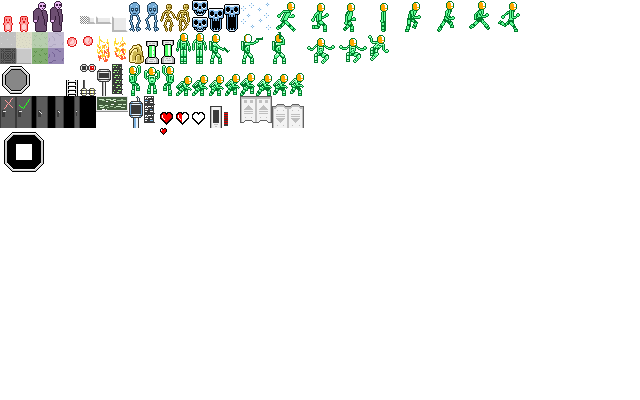
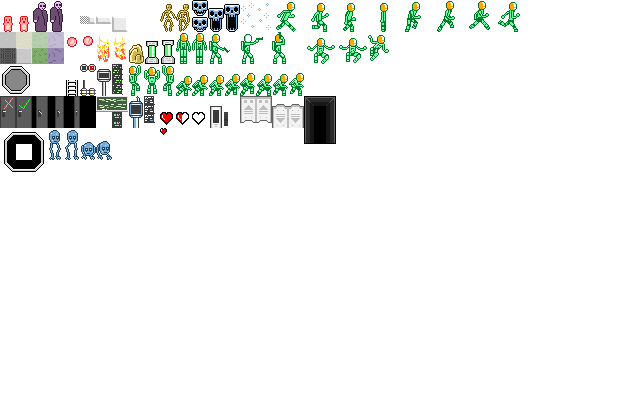
added enemy that ducks to dodge bullets

diff --git a/entities.py b/entities.py
@@ -395,7 +395,9 @@ class Player(Actor):
         bullet_h = 4
         self.active_bullet = pygame.Rect(bullet_x, bullet_y, bullet_w, bullet_h)
 
-        colliders = world.get_entities_in_rect(self.active_bullet.inflate(0, 8), category="enemy")
+        hitbox = self.active_bullet.inflate(0, 8)
+        hitting_hurtbox = lambda x: hitbox.colliderect(x.get_hurtbox())
+        colliders = world.get_entities_in_rect(hitbox, category="enemy", cond=hitting_hurtbox)
         colliders.extend(world.get_entities_in_rect(self.active_bullet, category="wall"))
 
         hit_entity = None
@@ -420,88 +422,6 @@ class Player(Actor):
             self.active_bullet.width = bullet_w
 
         return hit_entity
-
-
-class Enemy(Actor):
-    def __init__(self, x, y):
-        Actor.__init__(self, x, y, 16, 48)
-        self.categories.update(["enemy"])
-        self.speed = 0.75 + random.random()/2
-        self.current_dir = (0, 0)
-        self._randint = random.randint(0, 999)
-        self.radius = 140  # starts chasing player within this distance
-        self.forget_radius = 300  # stops chasing at this distance
-        self.is_chasing = False
-        self.start_chasing_time = 0
-        self.forget_time = 240  # fps dependent
-
-    sprites = [images.BLUE_GUY, images.PURPLE_GUY, images.BROWN_GUY]
-
-    def sprite(self):
-        return Enemy.sprites[self._randint % len(Enemy.sprites)]
-
-    def sprite_offset(self):
-        spr = self.sprite()
-        w = self.get_rect().width
-        h = self.get_rect().height
-        return [(w - spr.width()) / 2, (h - spr.height()) / 2 - (64 - h) / 2]
-
-    def draw(self, screen, offset=(0, 0), modifier=None):
-        Entity.draw(self, screen, offset, modifier)
-        if self.health < self.max_health:
-            health_x = self.get_rect().x + offset[0]
-            health_y = self.get_rect().y + self.sprite_offset()[1] - 6 + offset[1]
-            health_width = self.get_rect().width
-            health_rect = [health_x, health_y, health_width, 4]
-            pygame.draw.rect(screen, (255, 50, 50), health_rect, 0)
-            health_rect[2] = max(0, round(health_width * self.health / self.max_health))
-            pygame.draw.rect(screen, (50, 255, 50), health_rect, 0)
-
-    def update(self, input_state, world):
-        self._update_status_tags(world, input_state)
-
-        if self.health <= 0:
-            self.is_alive = False
-            return
-
-        p = world.player()
-        if p is not None:
-            dist = cool_math.dist(self.center(), p.center())
-            if dist <= self.radius:
-                self.start_chasing()  # it's ok to call this every frame
-            elif dist > self.forget_radius:
-                follow_time = global_state.tick_counter - self.start_chasing_time
-                if follow_time >= self.forget_time:
-                    self.is_chasing = False
-
-        if self.is_chasing and p is not None:
-            direction = cool_math.sub(p.center(), self.center())
-            direction = cool_math.normalize(direction)
-            self.current_dir = direction
-        else:
-            # change directions approx every 30 ticks
-            if random.random() < 1 / 60:
-                if random.random() < 0.25:
-                    self.current_dir = (0, 0)
-                else:
-                    self.current_dir = cool_math.rand_direction()
-        new_vel = cool_math.tend_towards(self.current_dir[0] * self.speed, self.vel[0], 0.3)
-        self.set_vel_x(new_vel)
-        self.apply_gravity()
-        self.apply_physics()
-
-    def touched_player(self, player, world):
-        v = cool_math.sub(player.center(), self.center())
-        v = cool_math.normalize(v)
-        player.deal_damage(1, direction=v)
-
-    def deal_damage(self, damage, direction=None):
-        Actor.deal_damage(self, damage, direction=direction)
-        self.start_chasing()
-
-    def start_chasing(self):
-        self.start_chasing_time = global_state.tick_counter
-        self.is_chasing = True
 
 
 class Wall(Entity):
@@ -559,66 +479,6 @@ class Wall(Entity):
                 r[0] = rect.width - 2
                 r[1] = y
                 pygame.draw.rect(self._cached_outline, (0, 0, 0), r, 0)
-
-
-class Spawner(Entity):
-    def __init__(self, x, y, radius):
-        Entity.__init__(self, x, y, 24, 24)
-        self.radius = radius
-        self.spawn_cooldown = 40
-        self.current_cooldown = 0
-        self.categories.update(["wall"])
-
-    def sprite(self):
-        if self.current_cooldown > 0:
-            return images.SPAWNER_SKULL_OPEN
-        else:
-            return images.SPAWNER_SKULL
-
-    def sprite_offset(self):
-        if self.current_cooldown > 0:
-            return (-4, -40)
-        else:
-            return (-4, -4)
-
-    def update(self, input_state, world):
-        if self.current_cooldown > 0:
-            self.current_cooldown -= 1
-        else:
-            if random.random() < 1 / 30:
-                self.do_spawn(world)
-
-    def create_spawned(self):
-        return Enemy(0, 0)
-
-    def do_spawn(self, world):
-        c = self.center()
-        r = random.random() * self.radius
-        angle = random.random() * 2 * math.pi
-        rand_x = round(r * math.cos(angle) + c[0])
-        rand_y = round(r * math.sin(angle) + c[1])
-        spawned = self.create_spawned()
-        spawned.set_center_x(rand_x)
-        spawned.set_center_y(rand_y)
-
-        if len(world.get_entities_in_rect(spawned.get_rect(), not_category="ground")) == 0:
-            world.add_entity(spawned)
-
-        self.current_cooldown = self.spawn_cooldown
-
-
-class EnergyTank(Entity):
-    def __init__(self, x, y, health):
-        Entity.__init__(self, x, y, 24, 24)
-        self.max_health = health
-        self.health = health
-        self.categories.update(["wall"])
-
-    def sprite(self):
-        return images.ENERGY_TANK
-
-    def sprite_offset(self):
-        return (-4, -40)
 
 
 class Door(Entity):
@@ -803,7 +663,7 @@ class HealthMachine(Entity):
 class LevelEndDoor(Entity):
     def __init__(self, x, y, dest_level_id):
         Entity.__init__(self, x, y, 64, 96)
-        self.categories.update(["interactable", "level_ddoor"])
+        self.categories.update(["interactable", "level_door"])
         self.dest_level_id = dest_level_id
         self.is_locked = True
         self.is_open = False
@@ -818,7 +678,6 @@ class LevelEndDoor(Entity):
             # TODO - play sound
 
     def draw(self, screen, offset=(0, 0), modifier="normal"):
-        pygame.draw.rect(screen, (0, 0, 0), self.get_rect().move(offset[0], offset[1]))
         x = self.get_x() + offset[0]
         top_sprite = images.BLAST_DOOR_TOP
         bot_sprite = images.BLAST_DOOR_BOTTOM
@@ -828,10 +687,10 @@ class LevelEndDoor(Entity):
             images.draw_animated_sprite(screen, (x, top_y_closed), top_sprite, modifier=modifier)
             images.draw_animated_sprite(screen, (x, bot_y_closed), bot_sprite, modifier=modifier)
         elif self.is_open or self.opening_cooldown <= 0:
-            # TODO - sprite for fully opened door
-            pass
+            images.draw_animated_sprite(screen, self.get_rect().move(offset[0], offset[1]), images.BLAST_DOOR_BKGR)
         else:
             # door is opening
+            images.draw_animated_sprite(screen, self.get_rect().move(offset[0], offset[1]), images.BLAST_DOOR_BKGR)
             progress = 1 - self.opening_cooldown / self.max_opening_cooldown
             top_cut_off = int(progress * top_sprite.height())
             bot_cut_off = int(progress * bot_sprite.height())
@@ -1087,7 +946,8 @@ class EntityCollection:
 
 _INVALIDS = set()
 _VALID_CATEGORIES = {"ground", "actor", "enemy", "decoration", "terminal", "puzzle_terminal",
-                     "health_machine", "wall", "overlay", "player", "interactable", "light_source"}
+                     "health_machine", "wall", "overlay", "player", "interactable", "light_source",
+                     "level_door"}
 
 
 def validate_category(category):

diff --git a/enemies.py b/enemies.py
@@ -1,0 +1,123 @@
+import random
+
+import pygame
+
+import cool_math
+import global_state
+import images
+import entities
+
+
+class Enemy(entities.Actor):
+    def __init__(self, x, y):
+        entities.Actor.__init__(self, x, y, 16, 48)
+        self.categories.update(["enemy"])
+        self.speed = 0.75 + random.random()/2
+        self.current_dir = (0, 0)
+        self._randint = random.randint(0, 999)
+        self.radius = 140  # starts chasing player within this distance
+        self.forget_radius = 300  # stops chasing at this distance
+        self.is_chasing = False
+        self.start_chasing_time = 0
+        self.forget_time = 240  # fps dependent
+
+    sprites = [images.PURPLE_GUY, images.BROWN_GUY]
+
+    def sprite(self):
+        return Enemy.sprites[self._randint % len(Enemy.sprites)]
+
+    def sprite_offset(self):
+        spr = self.sprite()
+        w = self.get_rect().width
+        h = self.get_rect().height
+        return [(w - spr.width()) / 2, (h - spr.height()) / 2 - (64 - h) / 2]
+
+    def draw(self, screen, offset=(0, 0), modifier=None):
+        entities.Entity.draw(self, screen, offset, modifier)
+        if self.health < self.max_health:
+            health_x = self.get_rect().x + offset[0]
+            health_y = self.get_rect().y + self.sprite_offset()[1] - 6 + offset[1]
+            health_width = self.get_rect().width
+            health_rect = [health_x, health_y, health_width, 4]
+            pygame.draw.rect(screen, (255, 50, 50), health_rect, 0)
+            health_rect[2] = max(0, round(health_width * self.health / self.max_health))
+            pygame.draw.rect(screen, (50, 255, 50), health_rect, 0)
+
+    def update(self, input_state, world):
+        self._update_status_tags(world, input_state)
+
+        if self.health <= 0:
+            self.is_alive = False
+            return
+
+        p = world.player()
+        if p is not None:
+            dist = cool_math.dist(self.center(), p.center())
+            if dist <= self.radius:
+                self.start_chasing()  # it's ok to call this every frame
+            elif dist > self.forget_radius:
+                follow_time = global_state.tick_counter - self.start_chasing_time
+                if follow_time >= self.forget_time:
+                    self.is_chasing = False
+
+        if self.is_chasing and p is not None:
+            direction = cool_math.sub(p.center(), self.center())
+            direction = cool_math.normalize(direction)
+            self.current_dir = direction
+        else:
+            # change directions approx every 30 ticks
+            if random.random() < 1 / 60:
+                if random.random() < 0.25:
+                    self.current_dir = (0, 0)
+                else:
+                    self.current_dir = cool_math.rand_direction()
+        new_vel = cool_math.tend_towards(self.current_dir[0] * self.speed, self.vel[0], 0.3)
+        self.set_vel_x(new_vel)
+        self.apply_gravity()
+        self.apply_physics()
+
+    def touched_player(self, player, world):
+        v = cool_math.sub(player.center(), self.center())
+        v = cool_math.normalize(v)
+        player.deal_damage(1, direction=v)
+
+    def deal_damage(self, damage, direction=None):
+        entities.Actor.deal_damage(self, damage, direction=direction)
+        self.start_chasing()
+
+    def start_chasing(self):
+        self.start_chasing_time = global_state.tick_counter
+        self.is_chasing = True
+
+    def get_hurtbox(self):
+        return self.get_rect()
+
+
+class DodgeEnemy(Enemy):
+    def __init__(self, x, y):
+        Enemy.__init__(self, x, y)
+        self.is_up = True
+        self.time_since_last_swap = 0
+
+    def sprite(self):
+        if self.is_up:
+            return images.BLUE_GUY_UP
+        else:
+            return images.BLUE_GUY_DOWN
+
+    def update(self, input_state, world):
+        Enemy.update(self, input_state, world)
+        self.time_since_last_swap += 1
+        # 0-30 = 0%, 31-150 = 1%-25%, 151+ = 25%
+
+        swap_chance = min((max(0, self.time_since_last_swap-30) / 240), 1) * 0.25
+        if random.random() < swap_chance:
+            self.is_up = not self.is_up
+            self.time_since_last_swap = 0
+
+    def get_hurtbox(self):
+        r = self.get_rect()
+        if self.is_up:
+            return [r[0], r[1], r[2], int(r[3]/2)]
+        else:
+            return [r[0], r[1]+int(r[3]/2), r[2], int(r[3]/2)]

diff --git a/images.py b/images.py
@@ -139,7 +139,8 @@ def R(x, y, w, h):
 
 RED_GUY             = create("red_guy", [r(0, 0, 1, 2), r(1, 0, 1, 2)])
 PURPLE_GUY          = create("purple_guy", [r(2, 0, 1, 2), r(3, 0, 1, 2)])
-BLUE_GUY            = create("blue_guy", [r(8, 0, 1, 2), r(9, 0, 1, 2)])
+BLUE_GUY_UP         = create("blue_guy", [R(48 + i*16, 128, 16, 32) for i in range(0, 2)])
+BLUE_GUY_DOWN       = create("blue_guy_down", [R(80 + i*16, 128, 16, 32) for i in range(0, 2)])
 BROWN_GUY           = create("brown_guy", [r(10, 0, 1, 2), r(11, 0, 1, 2)])
 WHITE_WALL          = create("white_wall", [r(7, 1, 1, 1)])
 WHITE_WALL_SMOL     = create("white_wall_small", [R(88, 16, 8, 8)])
@@ -167,6 +168,7 @@ HEALTH_MACHINE      = create("health_machine", [R(208, 96, 16, 32)])
 HEALTH_MACHINE_BAR  = create("health_machine_bar", [R(224, 112 + i*2, 4, 2) for i in range(0, 6)])
 BLAST_DOOR_TOP      = create("blast_door_top", [R(240, 96, 32, 32)])
 BLAST_DOOR_BOTTOM   = create("blast_door_bottom", [R(272, 96, 32, 32)])
+BLAST_DOOR_BKGR     = create("blast_door_background", [R(304, 96, 32, 48)])
 
 PLAYER_IDLE         = create("player_idle", [R(176, 32, 16, 32), R(192, 32, 16, 32)])
 PLAYER_GUN          = create("player_gun", [R(208 + 32*i, 32, 24, 32) for i in range(0, 3)], tpf=10)

diff --git a/levels.py b/levels.py
@@ -1,3 +1,4 @@
+import enemies
 import images
 import entities
 import decorations
@@ -86,8 +87,8 @@ class _SampleLevel(Level):
         puzzle2.set_on_success(rm_walls)
         ref_items.extend([rm_wall_1, rm_wall_2, puzzle2])
 
-        ref_items.append(self.fetch_ref("enemy_1", entities.Enemy(0, 0), refs))
-        ref_items.append(self.fetch_ref("enemy_2", entities.Enemy(0, 0), refs))
+        ref_items.append(self.fetch_ref("enemy_1", enemies.DodgeEnemy(0, 0), refs))
+        ref_items.append(self.fetch_ref("enemy_2", enemies.Enemy(0, 0), refs))
 
         ref_items.append(self.fetch_ref("terminal_3", entities.Terminal(0, 0, "this is only the beginning."), refs))
         ref_items.append(self.fetch_ref("health_machine", entities.HealthMachine(0, 0, 3), refs))

diff --git a/huds.py b/huds.py
@@ -3,6 +3,7 @@ import pygame
 import copy
 import collections
 
+import enemies
 import entities
 import global_state
 import cool_math
@@ -22,7 +23,7 @@ class HUD:
             entities.Wall(0, 0, 16, 16, images.WHITE_WALL_SMOL),
             entities.Terminal(0, 0),
             entities.ReferenceEntity(0, 0, ref_id=None),
-            entities.Enemy(0, 0),
+            enemies.Enemy(0, 0),
             decorations.get_decoration("lightbulb"),
             decorations.get_decoration("wire_vert"),
             entities.PuzzleTerminal(0, 0, lambda: puzzles.DummyPuzzle()),
